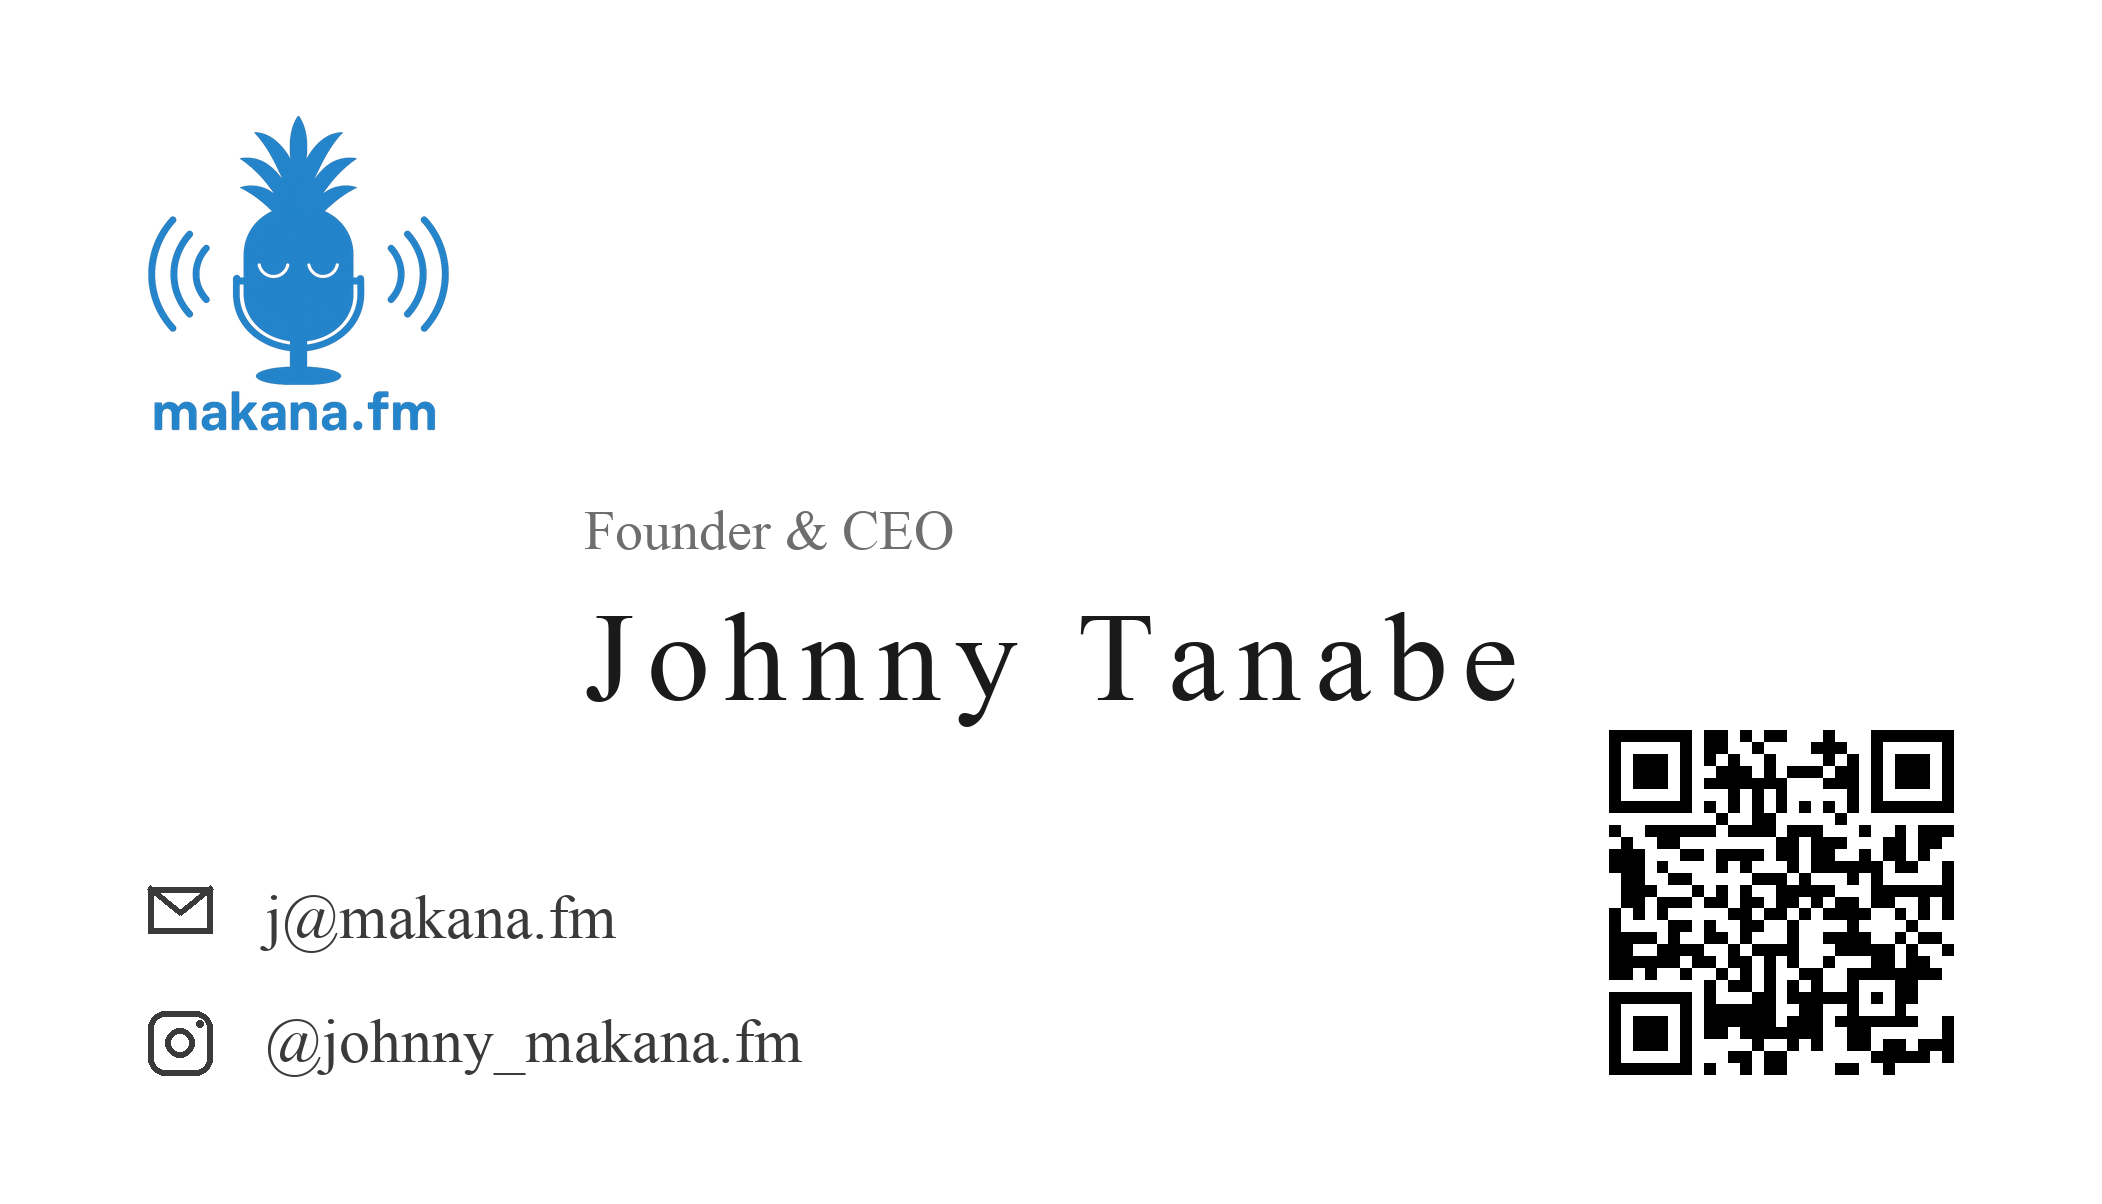
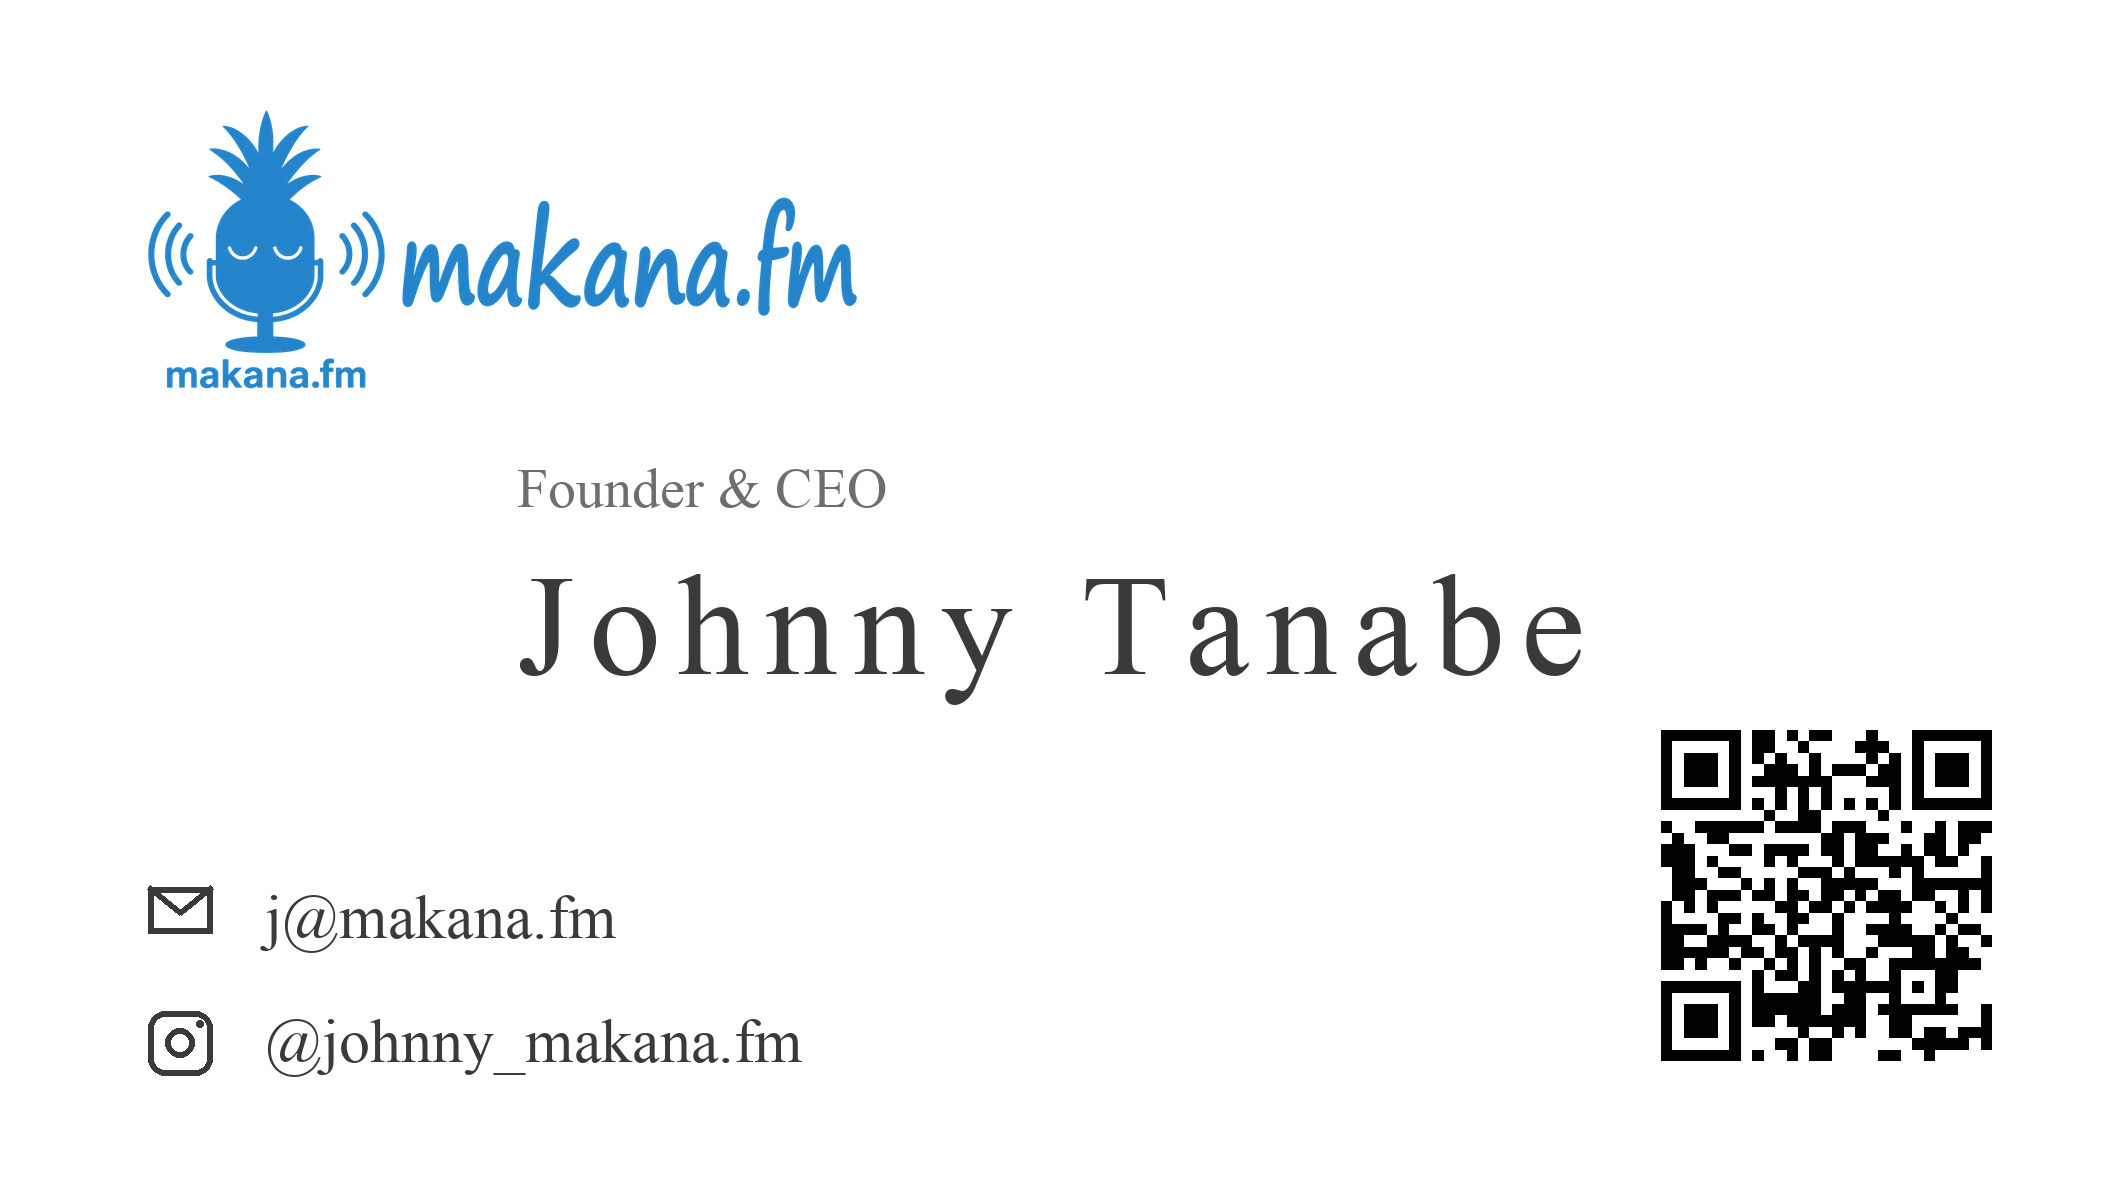
feat: front uses the original horizontal lockup
The original card's logo is a horizontal lockup (mark, a small wordmark
under it, and a script wordmark beside it). Everything built so far used
the vertical lockup from img/makana_fm.jpg, which is a different lockup in
a different typeface — the front never matched the original.

The horizontal form solves the legibility problem that forced the earlier
symbol-only compromise: its script wordmark reads at ~5mm where the
vertical one managed 1.7mm.

Two extraction hazards, both recorded in the spec: logo.png has the
transparency checkerboard baked in as pixels (a naive luminance-to-alpha
pass leaves a 9%-opacity grey grid on the printed card), and its blue is
#2668A5 against the #2384CB used by the back and the app icon.

Name settles at 45.3mm with 3.9mm of ink-to-ink clearance from the QR,
which moved right to a 4.7mm margin and down to 14.0mm.

diff --git a/tools/render_card.py b/tools/render_card.py
@@ -125,16 +125,17 @@ def render_front(canvas, ox, oy):
     def Y(v):
         return oy + px(v)
 
-    # Full logo, wordmark included. 12.7mm is the smallest width at which the
-    # wordmark inside it still reads (1.68mm cap height); below that it smudges.
-    lg = logo(f"{REPO}/img/card/logo_blue.png", 150)
-    canvas.paste(lg, (X(74), Y(58)), lg)
+    # Horizontal lockup from the original card: mark, the small wordmark beneath
+    # it, and the script wordmark. The script one reads at ~5mm; the small one is
+    # 1.27mm here, under the print floor, and is kept at the user's request.
+    lg = logo(f"{REPO}/img/card/logo_h_blue.png", 354)      # 30.0 x 11.8 mm
+    canvas.paste(lg, (X(74), Y(55)), lg)
 
-    f_t, f_n, f_c = font(SERIF, 28), font(SERIF, 63), font(SERIF, 31)
-    nw = tracked_w(d, NAME, f_n, px(7))
+    f_t, f_n, f_c = font(SERIF, 28), font(SERIF, 72), font(SERIF, 31)
+    nw = tracked_w(d, NAME, f_n, px(8))
     nx = ox + (px(DESIGN_W) - nw) / 2                       # name centred on the card
-    d.text((nx, Y(249)), TITLE, font=f_t, fill=GRAY)        # title on the name's left edge
-    tracked(d, nx, Y(293), NAME, f_n, px(7), NAME_INK)
+    d.text((nx, Y(228)), TITLE, font=f_t, fill=GRAY)        # title on the name's left edge
+    tracked(d, nx, Y(272), NAME, f_n, px(8), INK)
 
     icon, w = px(32), max(1, px(3))
     for i, (drawer, txt) in enumerate([(mail_icon, MAIL), (ig_icon, IG_FRONT)]):
@@ -142,7 +143,9 @@ def render_front(canvas, ox, oy):
         drawer(d, X(74), yy + (th(d, txt, f_c) - icon) / 2 + px(4), icon, w)
         d.text((X(132), yy), txt, font=f_c, fill=INK)
 
-    draw_qr(canvas, X(803), Y(364), px(172), *QR_FRONT, border_modules=0)
+    # shifted right to a 4.7mm margin and trimmed to 14.0mm so the name clears it;
+    # ink-to-ink separation from the name is 3.9mm
+    draw_qr(canvas, X(829), Y(364), px(165), *QR_FRONT, border_modules=0)
 
 
 def render_back(canvas, ox, oy):

diff --git a/docs/superpowers/specs/2026-07-25-business-card-design.md b/docs/superpowers/specs/2026-07-25-business-card-design.md
@@ -39,42 +39,53 @@
 
 ## 3. 表面
 
-白地。インクの上下マージンは 6.4 mm / 5.4 mm。**揃えの基準は 2 本**。
+白地。インクのマージンは 上 4.7 / 下 5.4 / 左 6.2 / 右 4.7 mm。**揃えの基準は 2 本**。
 
 - **左 74 px = 6.3 mm** — マーク、連絡先(機能の帯)
-- **氏名の左端 273 px** — 肩書き、氏名(アイデンティティの帯)
+- **氏名の左端 258 px** — 肩書き、氏名(アイデンティティの帯)
 
 | 要素 | 内容 | 書体・色 | 位置 (x, y) | サイズ |
 |---|---|---|---|---|
-| ロゴ | makana.fm フルロゴ(青・ワードマーク付き) | — | (74, 58) | 150 × 157 px = **12.7 × 13.3 mm** |
-| 肩書き | `Founder & CEO` | セリフ 28 px = 6.7 pt / `#6E6E6E` | (273, 249) | 幅 185 px = 15.7 mm |
-| 氏名 | `Johnny Tanabe` | セリフ **63 px = 15.1 pt** / `#1A1A1A`、**字間 +7 px** | (273, 293) | 幅 467 px = **39.6 mm** |
+| ロゴ | makana.fm **横並びロックアップ**(青) | — | (74, 55) | 354 × 139 px = **30.0 × 11.8 mm** |
+| 肩書き | `Founder & CEO` | セリフ 28 px = 6.7 pt / `#6E6E6E` | (258, 228) | 幅 185 px = 15.7 mm |
+| 氏名 | `Johnny Tanabe` | セリフ **72 px = 17.3 pt** / `#3A3A3A`、**字間 +8 px** | (258, 272) | 幅 534 px = **45.3 mm** |
 | 連絡先1 | ✉ `j@makana.fm` | セリフ 31 px = 7.4 pt / `#3A3A3A` | (74, 440) | アイコン 32 px、文字 x=132 |
 | 連絡先2 | IG `@johnny_makana.fm` | 同上 | (74, 502) | 行間 62 px |
-| QR | Johnny 個人 Instagram | — | (803, 364) | 172 px = **14.6 mm** |
+| QR | Johnny 個人 Instagram | — | (829, 364) | 165 px = **14.0 mm**、右マージン 4.7 mm |
 
-### ロゴは**ワードマーク付きのまま**変更しない
+### ロゴは元の名刺と同じ**横並びロックアップ**
 
-一度シンボルのみに差し替えたが、**表面から社名が消えるため差し戻した**。フルロゴを維持する。
+原本は `img/logo.png`(ユーザー提供)。**マーク＋マーク下の小さいワードマーク＋手書き風ワードマーク**の3要素。
+抽出は `tools/`(スクラッチ)で行い、成果物を `img/card/logo_h_{blue,white,native}.png` に置いている。
 
-**未解決**: 元の名刺の表面ロゴは**横並びのロックアップ**(マークの右に手書き風の `makana.fm`)だが、リポジトリにある `img/makana_fm.jpg` は**縦並び**(マークの下にワードマーク)で、書体も別物。現在の版下は縦並びを使っており、**元の名刺と一致していない**。原本の入手待ち(§8)。
+抽出時の注意が2つある。
 
-ロゴ幅の下限は **12.7 mm**。ロゴ内のワードマークはロゴ高さの 12.6% しかないため:
+1. `img/logo.png` は**透過ではなく、市松模様が2色(`#F2F2F2` / `#FEFEFE`)のピクセルとして焼き込まれている**。単純な輝度→アルファ変換では濃い方の格子が不透明度22(9%)で残り、白い紙に薄いグレーの格子が刷られる。**`#F2F2F2` 以上を完全透明にクランプする**こと。
+2. **この原本の青は `#2668A5` で、`img/makana_fm.jpg`(アプリアイコン原本)の `#2384CB` と違う。** 裏面の地色は `#2384CB` なので、揃えないと表と裏で青が変わる。版下では `#2384CB` に統一している(`logo_h_blue.png`)。**どちらが正のブランドカラーかは未確定**(§8)。
 
-| ロゴ幅 | ワードマークの高さ | |
-|---|---|---|
-| 12.7 mm | 1.68 mm = 4.8 pt | 読める下限 |
-| 9.3 mm | 1.23 mm = **3.5 pt** | 潰れて印刷不良に見える |
+マーク下の小さいワードマークは、ロックアップ幅 30 mm で **1.27 mm** にしかならず印刷の下限(約 1.5 mm)を割る。一度は削除したが、**ユーザーの指示により残している**。校正刷りで潰れを確認すること(§8)。
 
-横並びのロックアップならワードマークが高さに対して大きく取れるので、**原本を入手できればロゴを低くしつつ社名を読ませられ、氏名をもっと大きくできる可能性がある**。
+| ロックアップ幅 | 全体の高さ | マーク下の小文字 | 手書き風ワードマーク |
+|---|---|---|---|
+| 34 mm | 13.4 mm | 1.44 mm | 5.66 mm |
+| **30 mm(採用)** | **11.8 mm** | **1.27 mm** | **4.99 mm** |
+| 26 mm | 10.2 mm | 1.10 mm | 4.33 mm |
 
-### 氏名の大きさと、その上限
+### 氏名と QR の距離
 
-氏名は 36.0 mm → **39.6 mm**。色も `#3A3A3A` → `#1A1A1A` に濃くして、サイズだけでなくコントラストでも主役性を補っている。
+氏名 45.3 mm(17.3 pt)、色は `#3A3A3A`。**ボールドではない**(セリフのレギュラー)。
 
-上限は **QR のクワイエットゾーン左端 x = 779**。氏名は QR と縦位置が重なる帯(y = 293–354)にあるため、右へ伸ばすと干渉する。現状の余裕は 1.8 mm。67 px まで上げると余裕が 0.26 mm まで詰まり危険なので 63 px に留めた。
+氏名の右下と QR の左上は **インク同士で 3.9 mm**。当初は 1.4 mm しかなく窮屈だったため、次の 3 つで開いた。
 
-**氏名はカードの左右中央**(x=273〜758)。肩書きは中央揃えにせず、**氏名の左端に揃える**。中央から任意の px だけずらす案(40 px / 80 px も試作)は、位置が何の根拠も持たず「中央合わせを失敗した」ように見えるため不採用。氏名の右端と QR のクワイエットゾーン左端(x=779)は 1.8 mm 空いている。
+| 施策 | 効果 |
+|---|---|
+| 氏名 82 px → **72 px** | 幅が縮み右端が左に寄る |
+| QR を右へ(右マージン 6.3 → **4.7 mm**) | 水平方向に 19 px 稼ぐ |
+| QR を 14.6 → **14.0 mm** | さらに 7 px |
+
+**QR の縮小はこれ以上できない。** 29 マスなので 14.0 mm で 1 マス 0.483 mm。0.5 mm を切ると印刷での読み取り率が落ち始める領域に入っている。距離をさらに稼ぐなら氏名を縮めるか QR を下げること。
+
+**氏名はカードの左右中央**(x=258〜792)。肩書きは中央揃えにせず、**氏名の左端に揃える**。中央から任意の px だけずらす案(40 px / 80 px も試作)は、位置が何の根拠も持たず「中央合わせを失敗した」ように見えるため不採用。氏名と QR は**インク同士で 3.9 mm** 空いている(§3 の「氏名と QR の距離」)。
 
 ### 改訂前からの変更
 
@@ -83,9 +94,10 @@
 3. Instagram ハンドルを `@makana.fm` → **`@johnny_makana.fm`**(個人アカウント)に変更。
 4. 揃えの基準を 4 本(ロゴ70/罫線93/アイコン120/肩書き168)から 2 本に整理。
 5. 氏名をカード左右中央へ移動。
-6. ロゴを 15.1 mm → **12.7 mm** に縮小(ワードマークは維持。下限の根拠は上記)。
+6. ロゴを縦並び 15.1 mm → **元の名刺と同じ横並びロックアップ 30.0 × 11.8 mm** に変更。
 7. 氏名の下にあった**罫線を削除**。空いた縦分は全体の縦位置の再配分に回した。
-8. 氏名を 13.4 pt → **15.1 pt** に拡大し、色を `#3A3A3A` → `#1A1A1A` に濃くした。
+8. 氏名を 13.4 pt → **17.3 pt** に拡大(色は `#3A3A3A` のまま)。
+9. QR を 14.6 → 14.0 mm に縮小し、右マージン 6.3 → 4.7 mm へ寄せた。
 
 表面の QR は**地色が白なのでクワイエットゾーンが紙と同化し、白パネルが不要**。裏面のような白い枠は付けない。ただし QR の四辺 **2.0 mm 以内には何も置かない**こと。
 
@@ -178,8 +190,11 @@ Canva を経由せず、`tools/render_card.py` が設計値どおりの印刷用
 
 | 案 | 不採用の理由 |
 |---|---|
-| 表面をシンボルのみにして氏名 51.3 mm | 一度採用したが**表面から社名が消える**ため差し戻し。ロゴはワードマーク付きを維持する |
-| 氏名 67 px(42.7 mm) | QR のクワイエットゾーンとの余裕が 0.26 mm しか残らず、断裁・刷りのブレで干渉する危険がある |
+| 表面をシンボルのみにして氏名 51.3 mm | 一度採用したが**表面から社名が消える**ため差し戻し |
+| 縦並びロゴ(`makana_fm.jpg`)を表面に使う | 元の名刺は横並び。縦並びはワードマークが高さの 12.6% しかなく、名刺サイズでは 1.7 mm 以下に潰れる |
+| マーク下の小さいワードマークを削除 | 1.27 mm で印刷下限を割るため一度削除したが、**ユーザーの指示により復活**。潰れは校正で確認する |
+| 氏名 82 px のまま QR だけ動かす | 氏名の下端がクワイエットゾーンに 7 px 食い込む。ロックアップに小文字を戻した分だけ氏名が下がるため |
+| 氏名 95 px / 105 px | カード幅の 66〜73% を占めて過剰。左右余白も 11〜15 mm まで詰まる |
 | 裏面を白地(表と統一) | 2面とも白だと裏が「余りページ」に見える。ベタ塗りで反転させた方が2面のリズムが出る |
 | 裏面 白＋青帯(ハイブリッド) | 中央が間延びしやすい |
 | 裏面 左右分割 / 対角 | 中央上ロゴ＋中央下QR2つという希望構成に合わない |
@@ -198,6 +213,8 @@ Canva を経由せず、`tools/render_card.py` が設計値どおりの印刷用
 
 - [ ] **試し刷りで QR 3 つすべてを実機スキャン**して確認する。名刺は刷り直しが効かないため必須。
 - [ ] 校正刷りで裏面のラベル(7.2 pt 白抜きレギュラー、字画約 0.18 mm)が痩せていないか確認する。一般的なオフセット印刷が保持できるのは 0.15 mm 前後でマージンは大きくないため、**痩せて見えたらボールドに切り替える**。
-- [ ] **元の名刺で使っている横並びロゴの原本(SVG / PNG / AI)を入手する。** 現在の版下は縦並びの `img/makana_fm.jpg` を使っており、元の名刺とロゴのロックアップも書体も違う。原本があれば表面を元どおりにでき、氏名をさらに大きくできる可能性もある。
+- [ ] **ブランドカラーを確定する。** 原本 `img/logo.png` は `#2668A5`、`img/makana_fm.jpg`(アプリアイコン)は `#2384CB`。版下は後者に統一しているが、`#2668A5` が正なら**裏面の地色とアプリアイコンも直す**必要がある。
+- [ ] **表と裏でワードマークの書体が違う問題**を判断する。表は手書き風(横並びロックアップ)、裏は幾何学的サンセリフ(縦並び `makana_fm.jpg`)。1 枚に 2 種類の社名ロゴが載っている状態。裏面を横並びに揃えるなら中央揃えの縦積み構成を見直すことになる。
+- [ ] 校正刷りで**マーク下の小さいワードマーク(1.27 mm)** の潰れ具合を確認する。読めなければロックアップを大きくするか、その要素だけ外す。
 - [ ] 印刷所・用紙の選定(マット系)。
 - [ ] 生成した QR を**スキャンして、開いたページが意図した行き先かを目視確認**する。URL 3 つは本人確認済みだが、QR は中身が読めないため、生成時の打ち間違いは刷り上がるまで気づけない。
